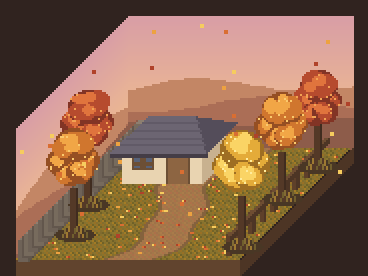
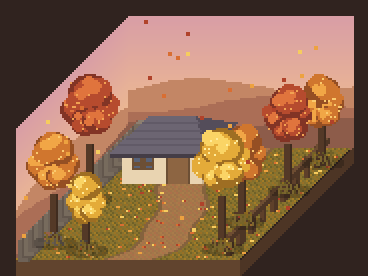
Autumn scene: irregular tree placement, trunk bases blended with surrounding grass texture
Claude-Session: https://claude.ai/code/session_01FPZSaKiVNU2zED737yZX4w

diff --git a/tools/render_autumn.py b/tools/render_autumn.py
@@ -25,12 +25,19 @@ FALL = {'red': ((120, 40, 30), (176, 66, 40), (222, 110, 56), (240, 160, 80)),
 
 def tree(sc, x, d, h, kind, rng, spread=14):
     def draw():
-        b = sc.P(x, d, 0); t = sc.P(x, d, h * .55)
-        sc.d.ellipse([b[0] - 10, b[1] - 3, b[0] + 10, b[1] + 3], fill=(58, 44, 30))
-        sc.d.polygon([(b[0] - 5, b[1] + 1), (b[0] - 2, b[1] - 6), (b[0] + 1, b[1] - 6), (b[0] + 4, b[1] + 1)], fill=(70, 46, 32))
-        sc.d.rectangle([b[0] - 2, t[1], b[0] + 1, b[1] - 5], fill=(70, 46, 32)); sc.d.line([(b[0] + 1, t[1]), (b[0] + 1, b[1] - 5)], fill=(48, 32, 24))
-        for k, gx in enumerate((-6, -4, -1, 2, 4, 6)):
-            c = ((120, 100, 46), (150, 116, 44), (100, 86, 40))[k % 3]; sc.d.line([(b[0] + gx, b[1] + 1), (b[0] + gx + (1 if gx < 0 else -1), b[1] - 3 - k % 2)], fill=c)
+        b = sc.P(x, d, 0); t = sc.P(x, d, h * .55); pxs = sc.px
+        for yy in range(b[1] - 3, b[1] + 4):                                                                  # 땅에 드리운 그늘: 풀 질감은 두고 어둡게만 한다
+            for xx in range(b[0] - 11, b[0] + 12):
+                if ((xx - b[0]) / 11.0) ** 2 + ((yy - b[1]) / 3.5) ** 2 < 1: r_, g_, b_ = pxs[xx, yy]; pxs[xx, yy] = (int(r_ * .72), int(g_ * .72), int(b_ * .75))
+        sc.d.polygon([(b[0] - 4, b[1] + 1), (b[0] - 2, b[1] - 5), (b[0] + 1, b[1] - 5), (b[0] + 3, b[1] + 1)], fill=(70, 46, 32))
+        sc.d.rectangle([b[0] - 2, t[1], b[0] + 1, b[1] - 4], fill=(70, 46, 32)); sc.d.line([(b[0] + 1, t[1]), (b[0] + 1, b[1] - 4)], fill=(48, 32, 24))
+        rr = random.Random(int(x * 31 + d * 17))                                                              # 줄기 밑을 주변 풀 픽셀로 덮는다(같은 색·같은 질감)
+        for yy in range(b[1] - 5, b[1] + 2):
+            for xx in range(b[0] - 5, b[0] + 5):
+                if rr.random() < .55 + (yy - (b[1] - 5)) * .09:
+                    sx = xx + rr.choice((-13, 13)); c = pxs[sx, yy]
+                    if c[0] > 50 and c != (30, 22, 24): pxs[xx, yy] = (int(c[0] * .85), int(c[1] * .85), int(c[2] * .85))
+        for gx in (-5, -2, 2, 5): sc.d.line([(b[0] + gx, b[1] + 1), (b[0] + gx + (1 if gx < 0 else -1), b[1] - 3)], fill=(112, 94, 40))
         top = sc.P(x, d, h)
         for dx, dy, r in ((-spread * .45, 6, spread * .75), (spread * .45, 5, spread * .7), (0, -2, spread * .9), (-spread * .2, 12, spread * .6), (spread * .3, 11, spread * .6)):
             blob(sc, top[0] + dx, top[1] + dy, r, FALL[kind], rng)
@@ -100,7 +107,7 @@ def build():
         sc.jobs.append((d, f))
     house(14, D - 34, 40, 22, 16)
     # 나무: 단풍(주황·빨강)·은행(노랑)·감나무
-    for x, d, h, k, sp in ((16, 26, 42, 'orange', 11), (8, 56, 46, 'red', 11), (106, 14, 46, 'gold', 12), (102, 62, 42, 'orange', 11), (104, 94, 38, 'red', 10)):
+    for x, d, h, k, sp in ((10, 18, 44, 'orange', 11), (30, 10, 30, 'gold', 8), (6, 62, 50, 'red', 12), (94, 38, 38, 'orange', 10), (97, 12, 48, 'gold', 12), (101, 70, 42, 'red', 10), (104, 98, 34, 'orange', 9)):
         tree(sc, x, d, h, k, rng, sp)
     sc.run()
     # 감나무의 감(주황 점)과 떨어지는 낙엽(공중)
